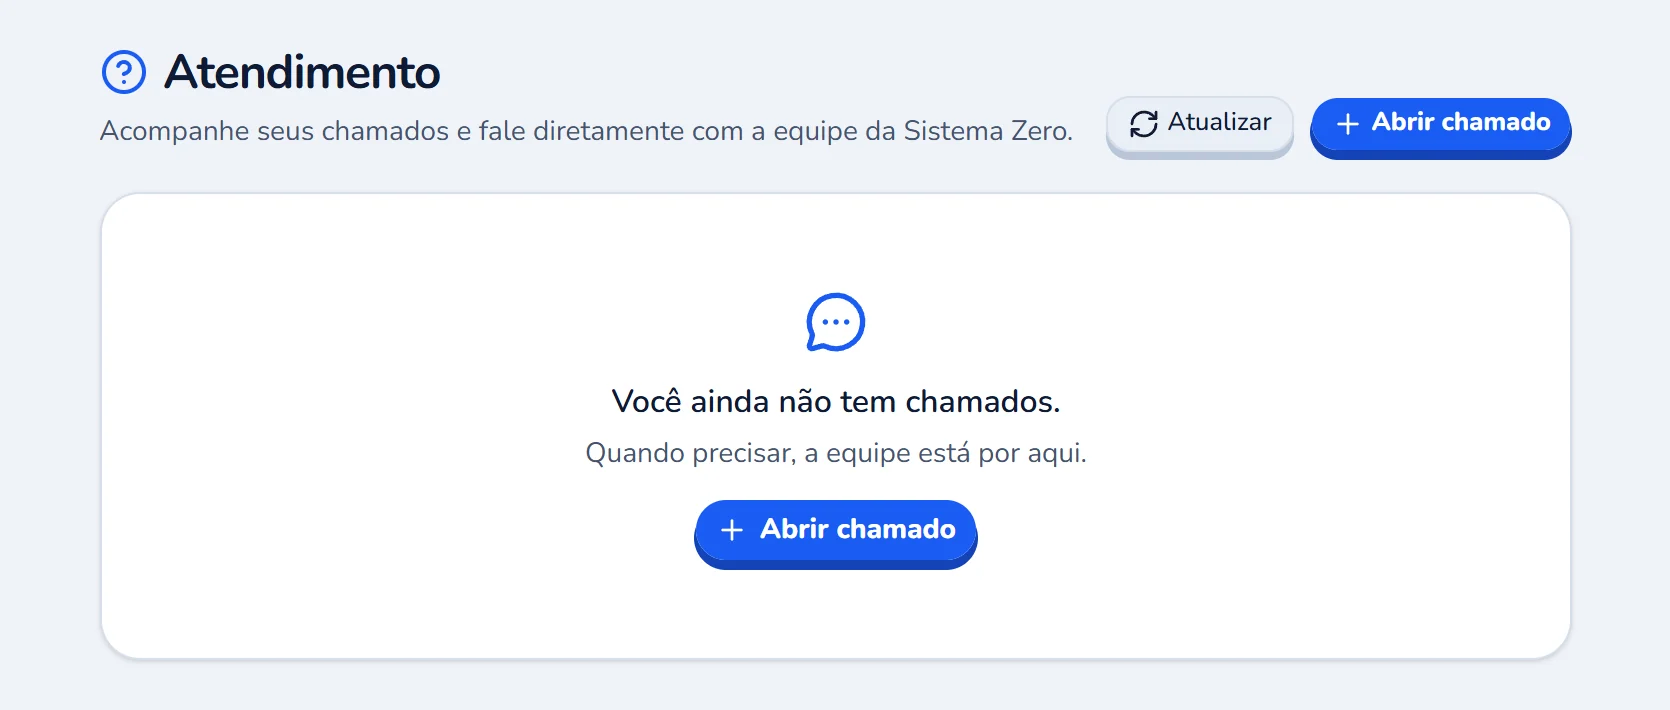
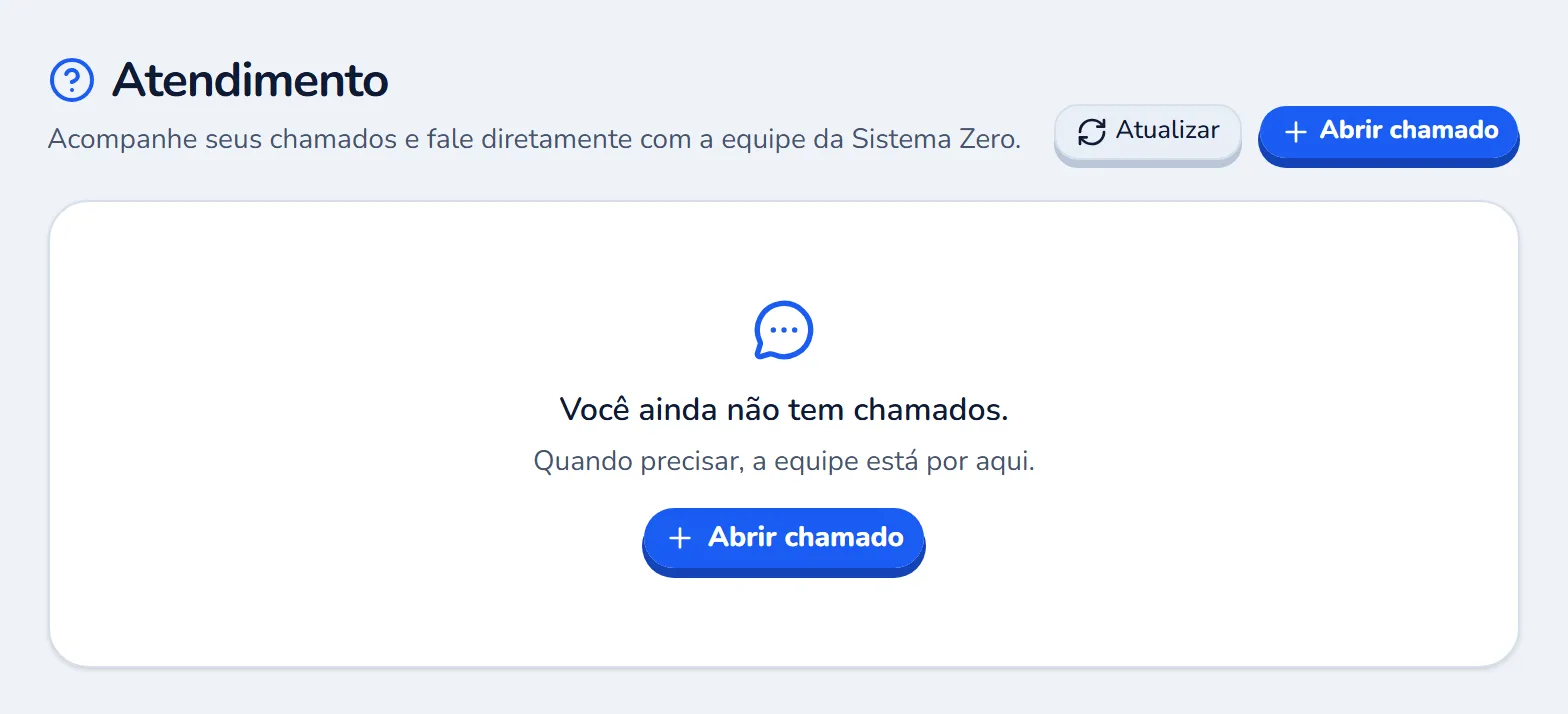
fix(desafio): lembrete de ativação leva ao código; fotos da área dos pais nova
- e-mails "conta ainda não ativada" do Desafio (Kids e adulto): sem pedir senha
  (opcional desde 15/11/2026); o botão "Entrar com o código do e-mail" leva ao
  login do responsável (Kids) e ao /login (adulto), não ao Esqueci minha senha
- site de vendas: fotos tela-pais-* refeitas na área dos pais redesenhada
  (página do filho, conversa, perfil, atendimento, chamado, família), com
  legendas e medidas novas; roteiro de captura atualizado

diff --git a/packages/funnel/src/funnels/comunidade-dos-criadores/oferta/visuals.ts b/packages/funnel/src/funnels/comunidade-dos-criadores/oferta/visuals.ts
@@ -404,21 +404,22 @@ export const COMUNIDADE_VISUALS: Record<string, ComunidadeVisual> = {
     ],
     caption: 'A recuperação de senha começa na tela de entrada.',
   },
-  // Área dos pais (entra com a senha da conta). As legendas são as do plano de provas visuais.
+  // Área dos pais (redesenhada em 14/11/2026; fotos do staging de 15/11/2026). As legendas são as
+  // do plano de provas visuais.
   responsavel: {
     mode: 'set',
     frames: [
       tela(
         'pais-painel',
-        'Acompanhamento',
-        'Acompanhamento na Área dos pais: a escolha da criança, o que ela fez nesta semana, o jogo publicado no Mural e os números no total, como pontos, medalhas, cursos e entregas.',
-        1152,
-        640,
+        'A página do filho',
+        'A página de um filho na Área dos pais, com o nome, a conquista atual, o botão Editar perfil e as abas Progresso, Aparelhos, No jogo e Perfil.',
+        1012,
+        254,
       ),
       tela(
         'pais-conversa',
         'Para conversar sobre uma criação',
-        'Perguntas para conversar sobre uma criação e o interruptor Receber o resumo da semana por e-mail, no Acompanhamento da Área dos pais.',
+        'Perguntas para conversar sobre uma criação e o interruptor Receber o resumo da semana por e-mail, na aba Progresso da página do filho.',
         392,
         346,
       ),
@@ -430,9 +431,9 @@ export const COMUNIDADE_VISUALS: Record<string, ComunidadeVisual> = {
       tela(
         'pais-perfil',
         'Editar perfil',
-        'Editar o perfil de uma criança na Área dos pais, com o nome, a data de nascimento (embaçada aqui) e a opção Perfil público na comunidade kids.',
-        542,
-        470,
+        'Editar o perfil de um filho na aba Perfil da Área dos pais, com o nome, a data de nascimento, a opção Perfil público na comunidade kids e a opção Falar em vez de escrever.',
+        608,
+        784,
       ),
     ],
     caption: 'O responsável administra a visibilidade do perfil para os colegas.',
@@ -444,8 +445,8 @@ export const COMUNIDADE_VISUALS: Record<string, ComunidadeVisual> = {
         'pais-atendimento',
         'Atendimento',
         'Atendimento, na Ajuda da Área dos pais, com os botões Atualizar e Abrir chamado.',
-        835,
-        355,
+        784,
+        357,
       ),
       tela(
         'pais-chamado',
@@ -457,12 +458,13 @@ export const COMUNIDADE_VISUALS: Record<string, ComunidadeVisual> = {
     ],
     caption: 'O atendimento da família reúne dúvidas sobre conta e assinatura.',
   },
-  // As telas da Área dos pais são capturas do staging de 11/10/2026 (páginas próprias), menos
+  // As telas da Área dos pais são capturas do staging de 15/11/2026 (área redesenhada), menos
   // "Minhas compras": ela vem de uma captura da própria dona na conta dela (02/10/2026), com os
   // dígitos do cartão embaçados, porque o staging não tem assinatura ativa para mostrar. O @2x
-  // dela é ampliado: não há captura em escala 2.
-  // ⚠ `creditos`: a captura ainda mostra o título antigo "Ajuda da IA neste mês". A tela passou a
-  // se chamar "Créditos do Zappy e do Pensa neste mês" (20/10/2026): refaça a captura antes de usar.
+  // dela é ampliado: não há captura em escala 2. ⚠ `compras` e `creditos` são da área ANTIGA:
+  // refaça as duas antes de usar. `creditos` ainda mostra o título "Ajuda da IA neste mês" (hoje
+  // "Créditos do Zappy e do Pensa neste mês") e só sai com a sessão de um CLIENTE: para a equipe o
+  // cartão some (sem teto).
   creditos: {
     frames: [
       tela(
@@ -494,13 +496,13 @@ export const COMUNIDADE_VISUALS: Record<string, ComunidadeVisual> = {
       tela(
         'pais-perfis',
         'Família',
-        'Suas crianças, na Família da Área dos pais: o cartão de cada criança com o acesso Liberado, os números da jornada, o que fez na semana e os botões Acesso nos aparelhos e Ver progresso.',
-        1144,
-        550,
+        'Seus filhos, na Família da Área dos pais: o cartão de cada filho com o acesso Liberado, dias seguidos, XP e medalhas, o que fez na semana e os botões Ver a página e Acesso nos aparelhos.',
+        1004,
+        521,
       ),
     ],
     caption:
-      'Cada criança tem o próprio cartão na Área dos pais, com o acesso nos aparelhos e o progresso.',
+      'Cada filho tem o próprio cartão na Família, com o acesso nos aparelhos e a página dele.',
   },
 }
 

diff --git a/packages/funnel/scripts/captura-telas-kids.ts b/packages/funnel/scripts/captura-telas-kids.ts
@@ -842,8 +842,9 @@ async function main() {
       },
       /**
        * Só roda com `KIDS_SO=pais` SOZINHO e com a sessão do RESPONSÁVEL (cookies exportados
-       * logado como responsável). As páginas da Área dos pais (11/10/2026): Acompanhamento,
-       * Editar perfil, Ajuda › Atendimento, Conta e Família. Nada é salvo nem enviado.
+       * logado como responsável). As páginas da Área dos pais redesenhada (15/11/2026): a página
+       * do filho (abas Progresso e Perfil), Ajuda › Atendimento, Conta e Família. Nada é salvo nem
+       * enviado.
        */
       pais: {
         nomes: ['pais'],
@@ -876,11 +877,16 @@ async function main() {
           }
           altura = 1000
           await tamanho(altura, 1)
-          // O que a criança fez na semana e os números no total.
+          // A página do filho: o cabeçalho e as abas (15/11/2026). O aviso "Falta a data de
+          // nascimento" é do perfil de teste e sai da foto; a Jornada fica de fora porque o staging
+          // mostra cursos da trilha ainda não publicados.
+          await avaliar(
+            `[...document.querySelectorAll('main *')].filter((d) => d.textContent.includes('Falta a data de nascimento') && d.textContent.includes('Informar a data')).slice(-1).forEach((d) => { d.style.display = 'none' })`,
+          )
           await foto(
             'tela-pais-painel',
             await caixaDe(
-              `[document.querySelector('main h1'), secao('Esta semana'), secao('No total')]`,
+              `[document.querySelector('main h1')?.closest('section, header, div.kids-carta') ?? document.querySelector('main h1'), document.querySelector('main [role=tablist]')]`,
               24,
             ),
           )
@@ -901,12 +907,10 @@ async function main() {
           )
           if (!crianca) throw new Error('Não achei uma criança na Família.')
           await abrir(`${crianca}?aba=perfil`, 3000)
+          // Só o cartão do formulário (o título "Editar o perfil de…" mora dentro dele).
           await foto(
             'tela-pais-perfil',
-            await caixaDe(
-              `[document.querySelector('main h1'), document.querySelector('main form')]`,
-              24,
-            ),
+            await caixaDe(`[document.querySelector('main form')?.parentElement]`, 16, 24),
           )
           // Atendimento e o formulário de chamado ABERTO (enviar seria um chamado real).
           await abrir('/pais/ajuda/atendimento', 3500)
@@ -930,19 +934,28 @@ async function main() {
             'tela-pais-indicacao',
             await caixaDe(`[document.querySelector('#embaixador')]`, 16),
           )
-          await foto(
-            'tela-pais-creditos',
-            await caixaDe(
-              `[document.querySelector('section[aria-labelledby="parents-ai"]')]`,
-              16,
-              110,
-            ),
+          // Os créditos só aparecem para CLIENTE (a equipe não tem teto e o cartão some): com a
+          // conta da equipe a foto fica para depois, sem derrubar o resto.
+          if (
+            await avaliar(
+              `Boolean(document.querySelector('section[aria-labelledby="parents-ai"]'))`,
+            )
           )
-          // Família: os cartões das crianças, sem a frase do limite de perfis do plano.
-          await abrir('/pais', 3000)
+            await foto(
+              'tela-pais-creditos',
+              await caixaDe(
+                `[document.querySelector('section[aria-labelledby="parents-ai"]')]`,
+                16,
+                110,
+              ),
+            )
+          else
+            console.warn('tela-pais-creditos: pulada (a conta é da equipe, sem cartão de créditos)')
+          // Família: os cartões dos filhos, sem a frase do limite de perfis do plano.
+          await abrir('/pais/familia', 3000)
           await foto(
             'tela-pais-perfis',
-            await caixaDe(`[secao('Suas crianças')?.querySelector('ul')]`, 20),
+            await caixaDe(`[secao('Seus filhos')?.querySelector('ul')]`, 20),
           )
           altura = 800
         },

diff --git a/packages/messaging/scripts/seed-templates.ts b/packages/messaging/scripts/seed-templates.ts
@@ -583,17 +583,17 @@ export const seeds = [
     key: 'challenge-not-activated',
     channel: 'email' as const,
     name: 'Desafio: conta ainda não ativada (e-mail)',
-    subject: '{{nome}}, falta só criar sua senha para começar o Desafio',
+    subject: '{{nome}}, o Desafio de vocês já está liberado',
     variables: ['nome', 'link'],
     body: emailLayout({
-      preheader: 'Seu acesso está contando; crie a senha para aproveitar o período do desafio.',
+      preheader: 'Seu acesso está contando. Entre com um código no e-mail; a senha é opcional.',
       title: 'Seu Desafio está esperando por vocês',
       content: [
-        p('Olá, {{nome}}! O acesso já foi liberado, mas a senha da conta ainda não foi criada.'),
+        p('Olá, {{nome}}! O acesso já foi liberado, mas a conta ainda não foi aberta.'),
         p(
-          'Como os 30 dias começaram na aprovação do pagamento, vale resolver esse passo agora. Use o botão abaixo, informe o e-mail da compra e siga as instruções para definir sua senha.',
+          'Como os 30 dias começaram na aprovação do pagamento, vale entrar agora. Não precisa de senha: use o botão abaixo, informe o e-mail da compra e digite o código de 6 números que chega no seu e-mail.',
         ),
-        ctaButton('Criar senha e entrar', '{{link}}'),
+        ctaButton('Entrar com o código do e-mail', '{{link}}'),
         fallbackLink('{{link}}'),
       ].join('\n'),
       footerNote: 'Você recebeu este e-mail porque comprou o Desafio do Primeiro Jogo.',
@@ -789,17 +789,17 @@ export const seeds = [
     key: 'challenge-not-activated-adult',
     channel: 'email' as const,
     name: 'Desafio adulto: conta ainda não ativada (e-mail)',
-    subject: '{{nome}}, falta criar a sua senha para começar o Desafio',
+    subject: '{{nome}}, o seu Desafio já está liberado',
     variables: ['nome', 'link'],
     body: emailLayout({
-      preheader: 'O seu acesso já está contando. Crie a senha para aproveitar o prazo.',
+      preheader: 'O seu acesso já está contando. Entre com um código no e-mail.',
       title: 'O seu Desafio está esperando por você',
       content: [
-        p('Olá, {{nome}}. O acesso já foi liberado, mas a senha da conta ainda não foi criada.'),
+        p('Olá, {{nome}}. O acesso já foi liberado, mas a sua conta ainda não foi aberta.'),
         p(
-          'Os 30 dias começaram na aprovação do pagamento, então vale resolver agora. Use o botão abaixo, informe o e-mail da compra e siga as instruções para criar a senha.',
+          'Os 30 dias começaram na aprovação do pagamento, então vale entrar agora. A senha é opcional. Use o botão abaixo, toque em <strong>Com código no e-mail</strong>, informe o e-mail da compra e digite o código de 6 números que chega para você.',
         ),
-        ctaButton('Criar senha e entrar', '{{link}}'),
+        ctaButton('Entrar com o código do e-mail', '{{link}}'),
         fallbackLink('{{link}}'),
       ].join('\n'),
       footerNote: 'Você recebeu este e-mail porque comprou o Desafio do Primeiro Jogo.',

diff --git a/packages/members/tests/unit/challenge-lifecycle.test.ts b/packages/members/tests/unit/challenge-lifecycle.test.ts
@@ -118,7 +118,7 @@ function adulto(over: Partial<ChallengeLifecycleCandidate> = {}): ChallengeLifec
 }
 
 describe('SendChallengeLifecycleService', () => {
-  test('24h sem senha envia o lembrete de ativação uma única vez', async () => {
+  test('24h sem entrar envia o lembrete de ativação uma única vez, com o login por código', async () => {
     const { repo, marks } = fakeRepo([candidate()])
     const messaging = fakeMessaging()
     const lifecycle = service(repo, fakeAuth([identity(false)]), messaging.gateway)
@@ -128,7 +128,7 @@ describe('SendChallengeLifecycleService', () => {
       templateKey: 'challenge-not-activated',
       variables: {
         nome: 'Marcos',
-        link: 'https://kids.sistemazero.com.br/esqueci-senha',
+        link: 'https://kids.sistemazero.com.br/login/responsavel',
       },
       idempotencyKey: 'challenge-not-activated:ent-1:2026-10-16',
     })
@@ -253,7 +253,7 @@ describe('SendChallengeLifecycleService no Desafio adulto', () => {
         templateKey: 'challenge-not-activated-adult',
         variables: {
           nome: 'Aluno(a)',
-          link: 'https://comunidade.sistemazero.com.br/esqueci-senha',
+          link: 'https://comunidade.sistemazero.com.br/login',
         },
         idempotencyKey: 'challenge-not-activated-adult:sem-senha:2026-10-16',
       }),

diff --git a/packages/members/src/application/challenge-lifecycle/send-challenge-lifecycle.service.ts b/packages/members/src/application/challenge-lifecycle/send-challenge-lifecycle.service.ts
@@ -174,7 +174,9 @@ function linkFor(
   courseRef: string,
   opts: ChallengeLifecycleOptions,
 ): string {
-  if (kind === 'not_activated') return `${opts.kidsUrl}/esqueci-senha`
+  // A senha é opcional desde 15/11/2026: quem nunca entrou vai ao login do responsável, que abre
+  // no código do e-mail.
+  if (kind === 'not_activated') return `${opts.kidsUrl}/login/responsavel`
   // O responsável prepara o computador da criança na Área dos pais antes da 1ª fase.
   if (kind === 'not_started') return `${opts.kidsUrl}/pais`
   if (kind === 'completed')
@@ -190,6 +192,6 @@ function adultLinkFor(
 ): string | null {
   if (kind === 'completed') return accessEndedLink(opts.funnelUrl, 'adult', 'desafio-concluido')
   if (!opts.adultUrl) return null
-  if (kind === 'not_activated') return `${opts.adultUrl}/esqueci-senha`
+  if (kind === 'not_activated') return `${opts.adultUrl}/login`
   return `${opts.adultUrl}/cursos/${encodeURIComponent(courseRef)}`
 }

diff --git a/packages/messaging/tests/challenge-adult-copy.test.ts b/packages/messaging/tests/challenge-adult-copy.test.ts
@@ -63,7 +63,7 @@ describe('Desafio do Primeiro Jogo para adultos (21/10/2026)', () => {
         "ctaButton('{{acao}}', '{{link}}')",
         'Não há renovação automática.',
       ],
-      'challenge-not-activated-adult': ["ctaButton('Criar senha e entrar', '{{link}}')"],
+      'challenge-not-activated-adult': ["ctaButton('Entrar com o código do e-mail', '{{link}}')"],
       'challenge-not-started-adult': ["ctaButton('Abrir a primeira aula', '{{link}}')"],
       'challenge-day-one-complete-adult': ["ctaButton('Continuar o Desafio', '{{link}}')"],
       // O link do aviso de 7 dias é a página Seu progresso do app adulto.

diff --git a/packages/messaging/CLAUDE.md b/packages/messaging/CLAUDE.md
@@ -84,7 +84,8 @@ Porta **3006**. Schema Postgres próprio **`messaging`**.
    **Desafio do Primeiro Jogo (09/2026):** `challenge-access-approved` (e-mail + WhatsApp;
    `nome`+`link`+`expira_em`+`acao`+`orientacao`) confirma os 30 dias no funil;
    `challenge-not-activated`, `challenge-not-started`, `challenge-day-one-complete` e
-   `challenge-completed` (e-mail; `nome`+`link`) cobrem ativação/progresso; `challenge-expiry-7d`,
+   `challenge-completed` (e-mail; `nome`+`link`) cobrem ativação/progresso (o "não ativou" leva
+   ao login com código desde 15/11/2026: a senha é opcional); `challenge-expiry-7d`,
    `challenge-expiry-3d` e `challenge-expired` (e-mail; `nome`+`data`+`link`) cobrem o vencimento.
    Os envios pós-compra partem do MEMBERS com idempotência por matrícula+vencimento+marco.
    NÃO renomeie sem mudar os chamadores. Template novo → o `db:deploy` do Railway roda
@@ -399,7 +400,7 @@ pessoa (sem criança, responsável ou Área dos pais), pelo `templates:seed` do 
 `challenge-not-started-adult`, `challenge-day-one-complete-adult` e `challenge-completed-adult`
 (`nome`+`link`), e `challenge-expiry-7d-adult`, `challenge-expiry-3d-adult` e `challenge-expired-adult`
 (`nome`+`data`+`link`), só e-mail, enviados pelo MEMBERS. O link chega pronto: app adulto
-(`/esqueci-senha`, `/cursos/desafio-primeiro-jogo-adulto`, `/progresso`) ou a continuidade adulta do funil
+(`/login`, `/cursos/desafio-primeiro-jogo-adulto`, `/progresso`) ou a continuidade adulta do funil
 com UTM. Enquanto o seed não roda, o funil cai em `welcome`/`new-access` (404 `TEMPLATE_NOT_FOUND`); o
 members não tem reserva e o envio falha e é tentado de novo no ciclo seguinte. Teste:
 `tests/challenge-adult-copy.test.ts` (contrato, canais, botões, segunda pessoa e Light Copy na fonte).

diff --git a/packages/members/CLAUDE.md b/packages/members/CLAUDE.md
@@ -2049,7 +2049,8 @@ ASSINATURA cancelada/expirada → funil → POST /members/webhooks/subscription 
   (`drizzle/challenge-master-key.ts`), então `all_kids_courses` não encobre o curso adulto. O candidato
   traz `audience`. No adulto, a chave é a mesma com o sufixo `-adult` (mesmas variáveis), o nome
   reserva é `Aluno(a)` e os links são do app adulto (env opcional **`COMMUNITY_URL`**): não ativou →
-  `/esqueci-senha`; não começou, Dia 1 e 3 dias → `/cursos/desafio-primeiro-jogo-adulto`; 7 dias →
+  `/login` (no Kids, `/login/responsavel`, que abre no código; a senha é opcional desde 15/11/2026 e
+  "ativou" = criou senha OU já entrou); não começou, Dia 1 e 3 dias → `/cursos/desafio-primeiro-jogo-adulto`; 7 dias →
   `/progresso`; concluiu e expirou → `accessEndedLink(funnelUrl, 'adult', 'desafio-concluido' |
   'desafio-encerrado')` (continuidade adulta do funil, com UTM). Sem `COMMUNITY_URL`, os avisos que levam
   ao app não saem nem são marcados (log `challenge_lifecycle.adult_url_missing` /
